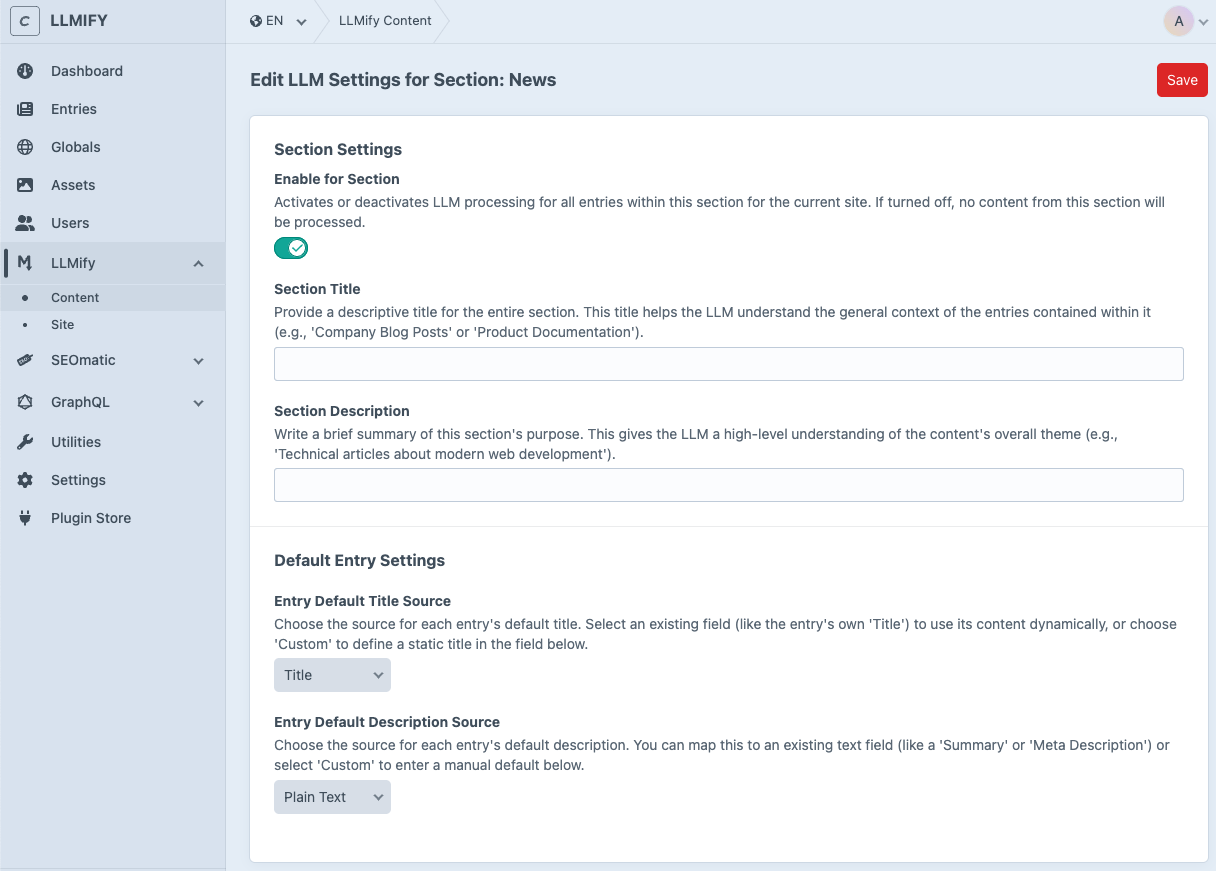
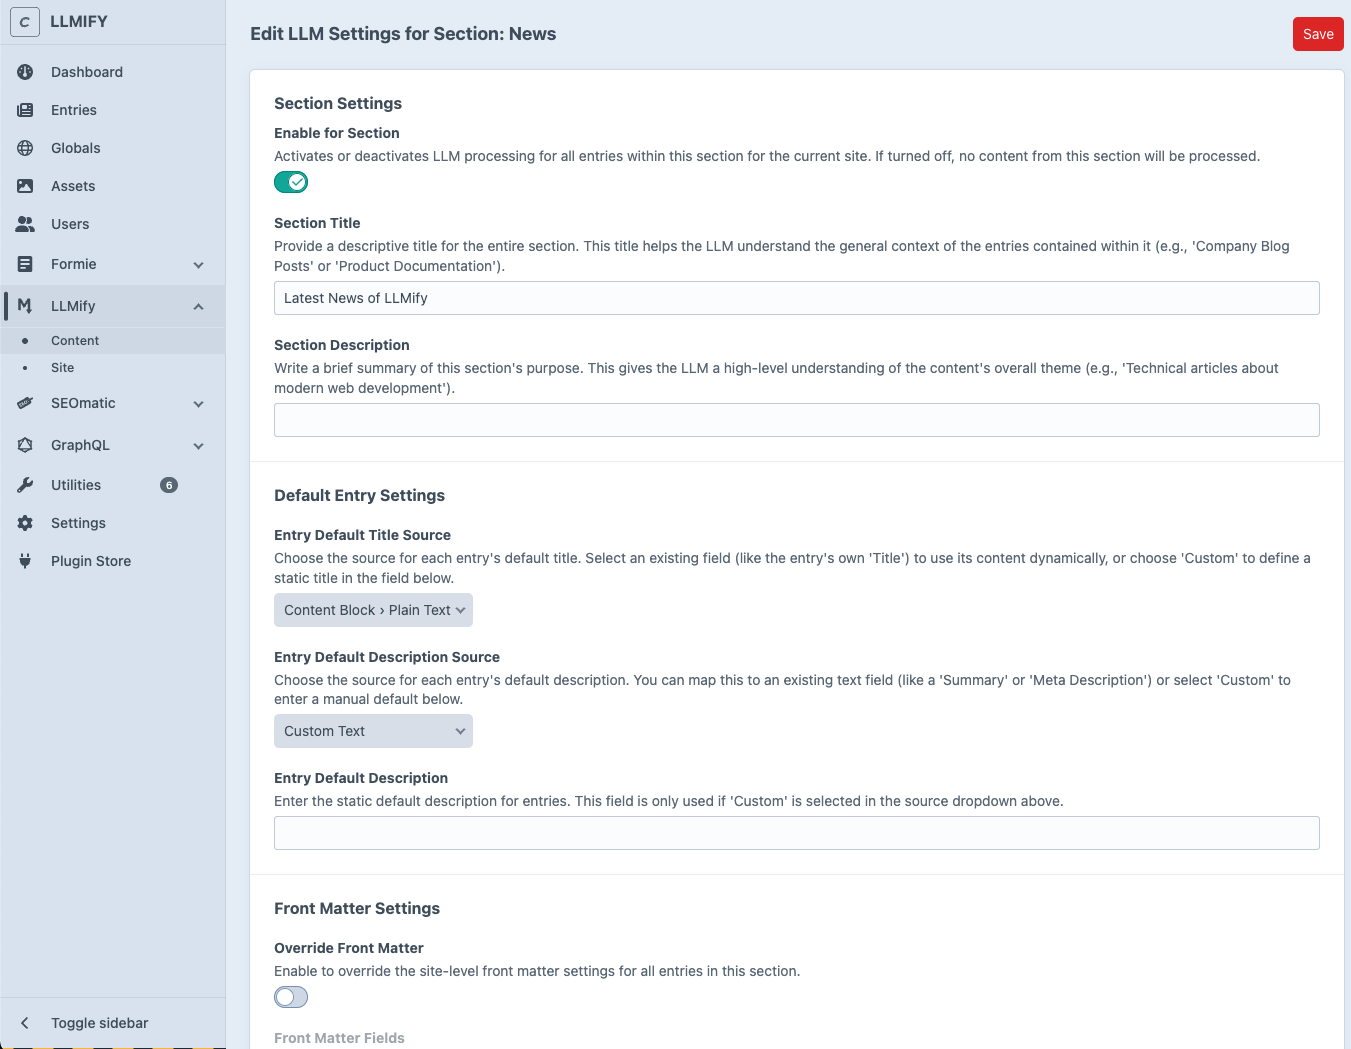
Update llmify docs

diff --git a/content/2.libraries/craft-llmify/index.md b/content/2.libraries/craft-llmify/index.md
@@ -19,6 +19,7 @@ This creates a perfect, distraction-free version of your content, served in AI-r
 - **Exclude Tags with Classes**: Define classes that should be excluded from the HTML output.
 - **Flexible Configuration**: Site-wide, section, and entry-level settings.
 - **Easy Refresh Options**: Automatic background jobs, manual updates in the CP, or console commands for deployments.
+- **Frontmatter Metadata**: Add configurable metadata to your Markdown.
 
 ## Why it Matters
 

diff --git a/content/2.libraries/craft-llmify/1.get-started/2.config.md b/content/2.libraries/craft-llmify/1.get-started/2.config.md
@@ -45,6 +45,9 @@ return [
             'header_style' => 'atx',
             'remove_nodes' => 'img picture style',
         ],
+
+        //Whether front matter should also be included for each page in llms-full.txt.
+        'frontMatterInFullTxt' => false,
     ],
 
     'dev' => [
